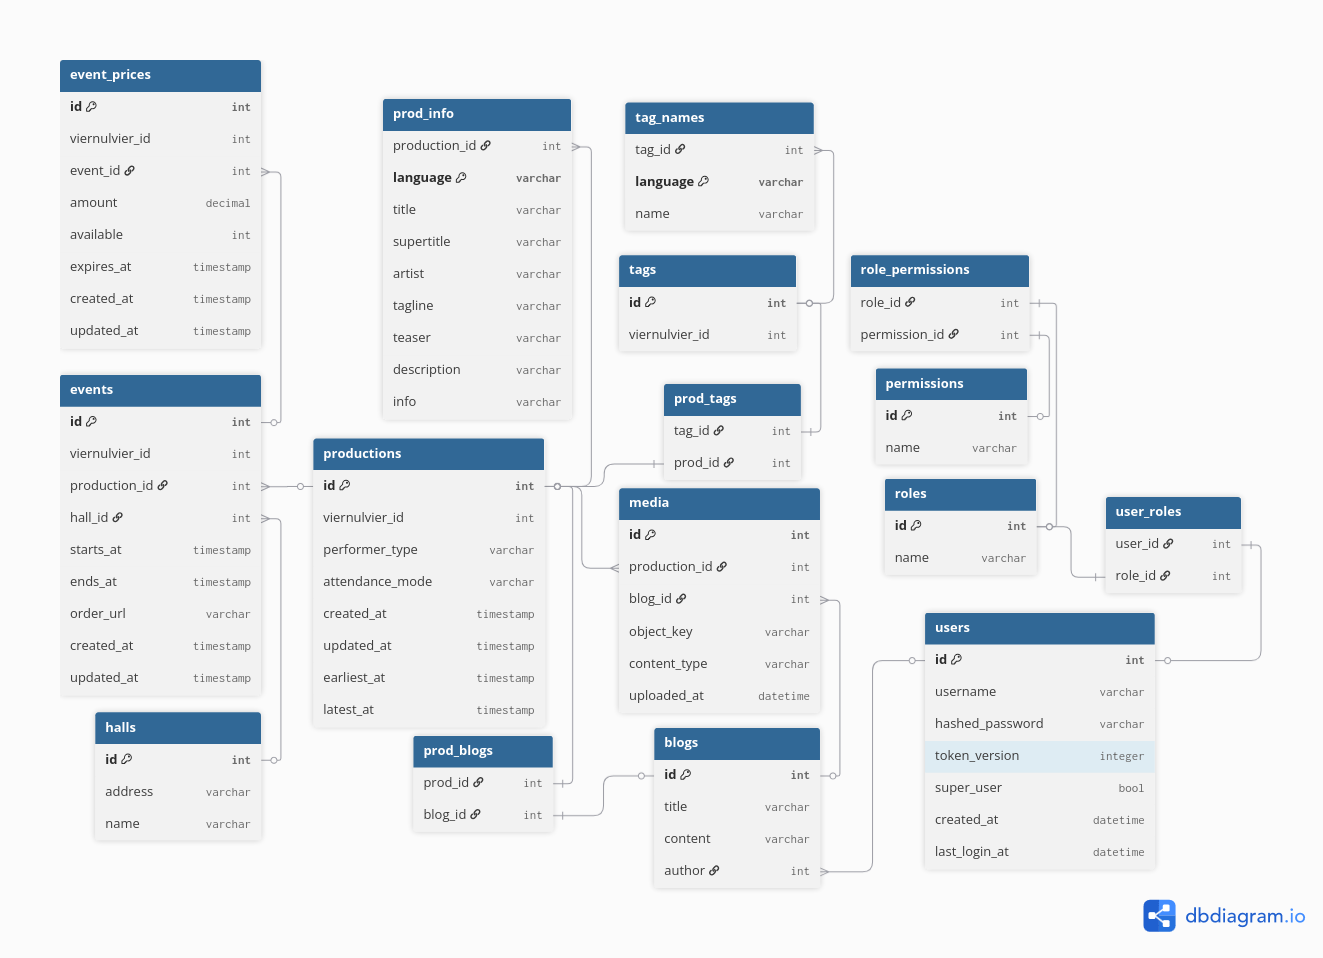
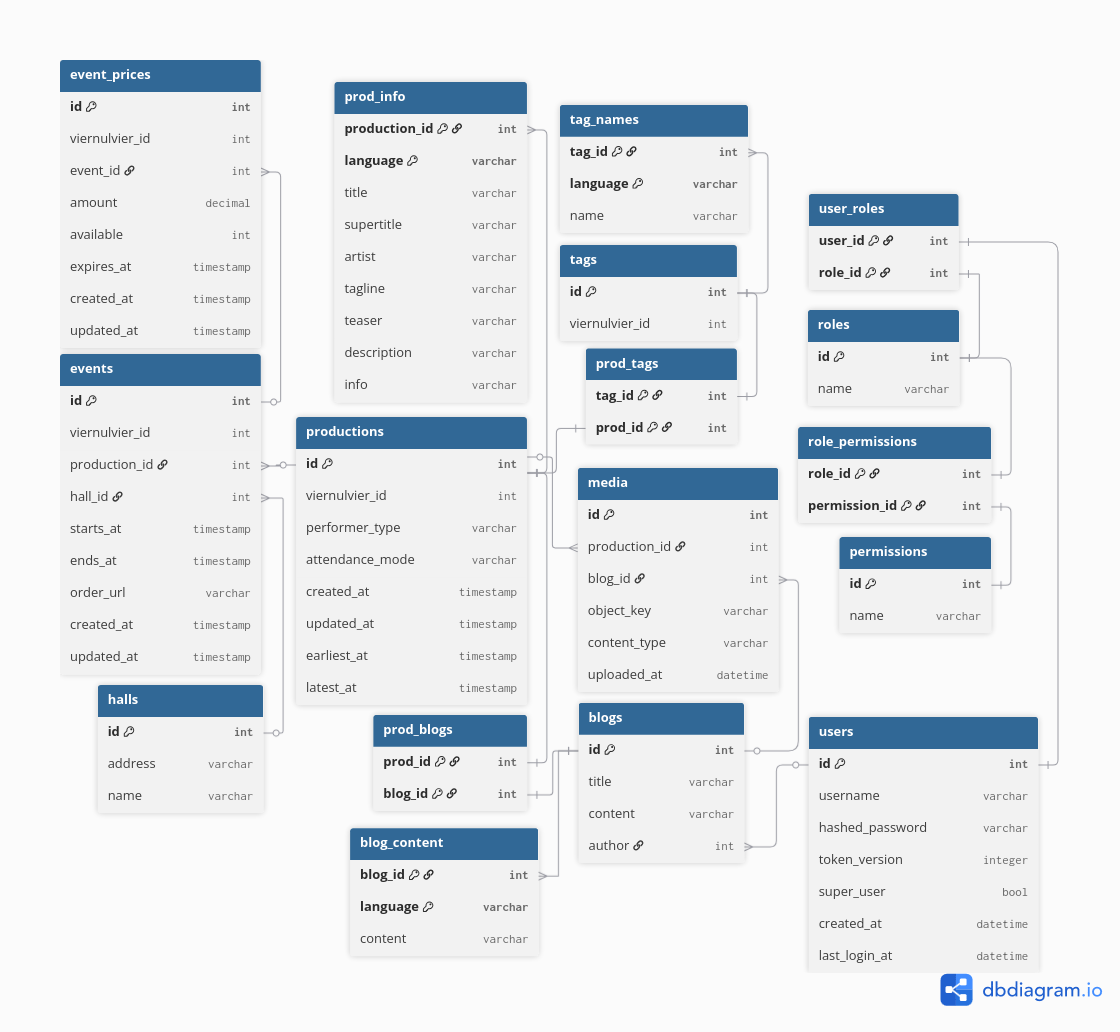
updated er-diagram

diff --git a/docs/domain-model.md b/docs/domain-model.md
@@ -21,7 +21,7 @@ Table productions {
 }
 
 Table prod_info {
-  production_id int [ref: > productions.id]
+  production_id int [pk, ref: > productions.id]
   language varchar [pk]
 
   title varchar
@@ -39,14 +39,14 @@ Table tags {
 }
 
 Table tag_names {
-  tag_id int [ref: > tags.id]
+  tag_id int [pk, ref: > tags.id]
   language varchar [pk]
   name varchar
 }
 
 Table prod_tags {
-  tag_id int [ref: - tags.id]
-  prod_id int [ref: - productions.id]
+  tag_id int [pk, ref: - tags.id]
+  prod_id int [pk, ref: - productions.id]
 }
 
 Table events {
@@ -96,8 +96,8 @@ Table media {
 }
 
 Table prod_blogs {
-  prod_id int [ref: - productions.id]
-  blog_id int [ref: - blogs.id]
+  prod_id int [pk, ref: - productions.id]
+  blog_id int [pk, ref: - blogs.id]
 }
 
 Table blogs {
@@ -105,6 +105,12 @@ Table blogs {
   title varchar
   content varchar
   author int [ref: > users.id]
+}
+
+Table blog_content {
+  blog_id int [pk, ref: > blogs.id]
+  language varchar [pk]
+  content varchar
 }
 
 Table users {
@@ -118,8 +124,8 @@ Table users {
 }
 
 Table user_roles {
-  user_id int [ref: - users.id]
-  role_id int [ref: - roles.id]
+  user_id int [pk, ref: - users.id]
+  role_id int [pk, ref: - roles.id]
 }
 
 Table roles {
@@ -128,8 +134,8 @@ Table roles {
 }
 
 Table role_permissions {
-  role_id int [ref: - roles.id]
-  permission_id int [ref: - permissions.id]
+  role_id int [pk, ref: - roles.id]
+  permission_id int [pk, ref: - permissions.id]
 }
 
 Table permissions {
